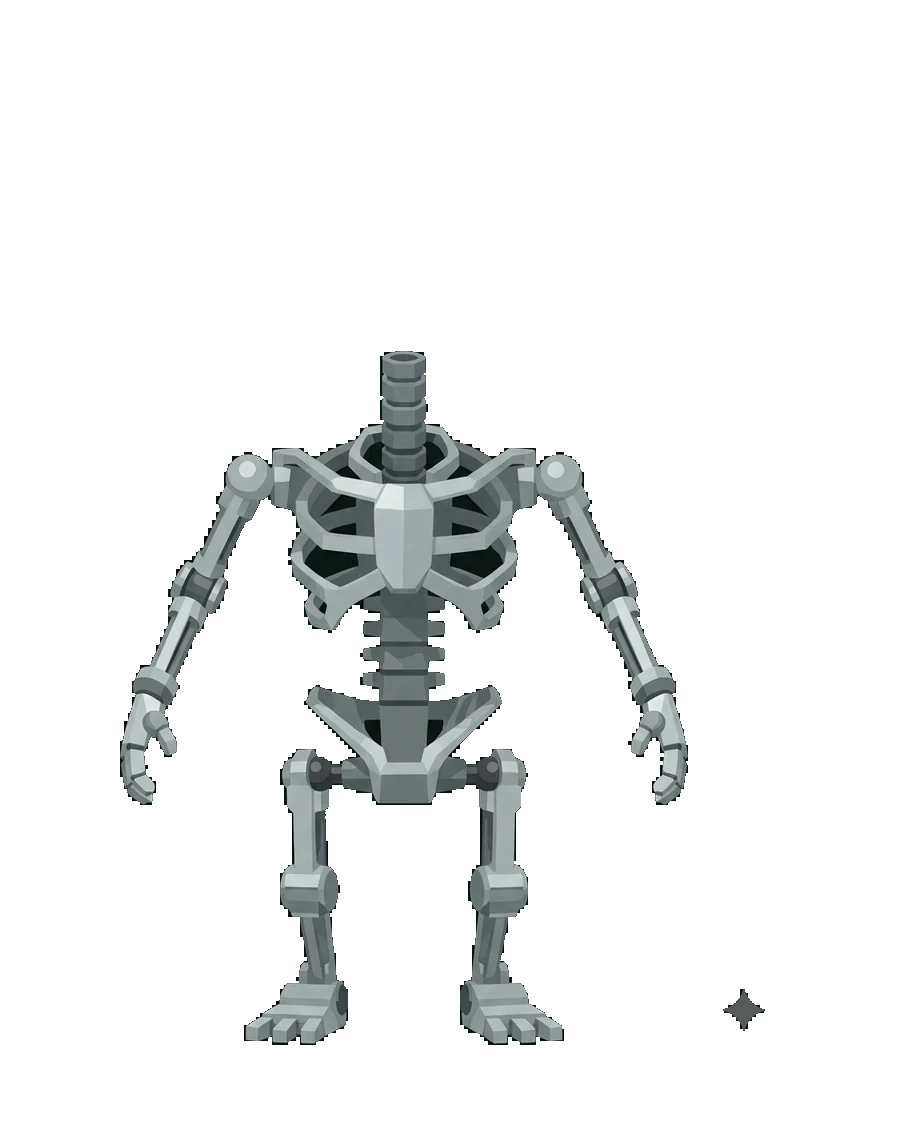
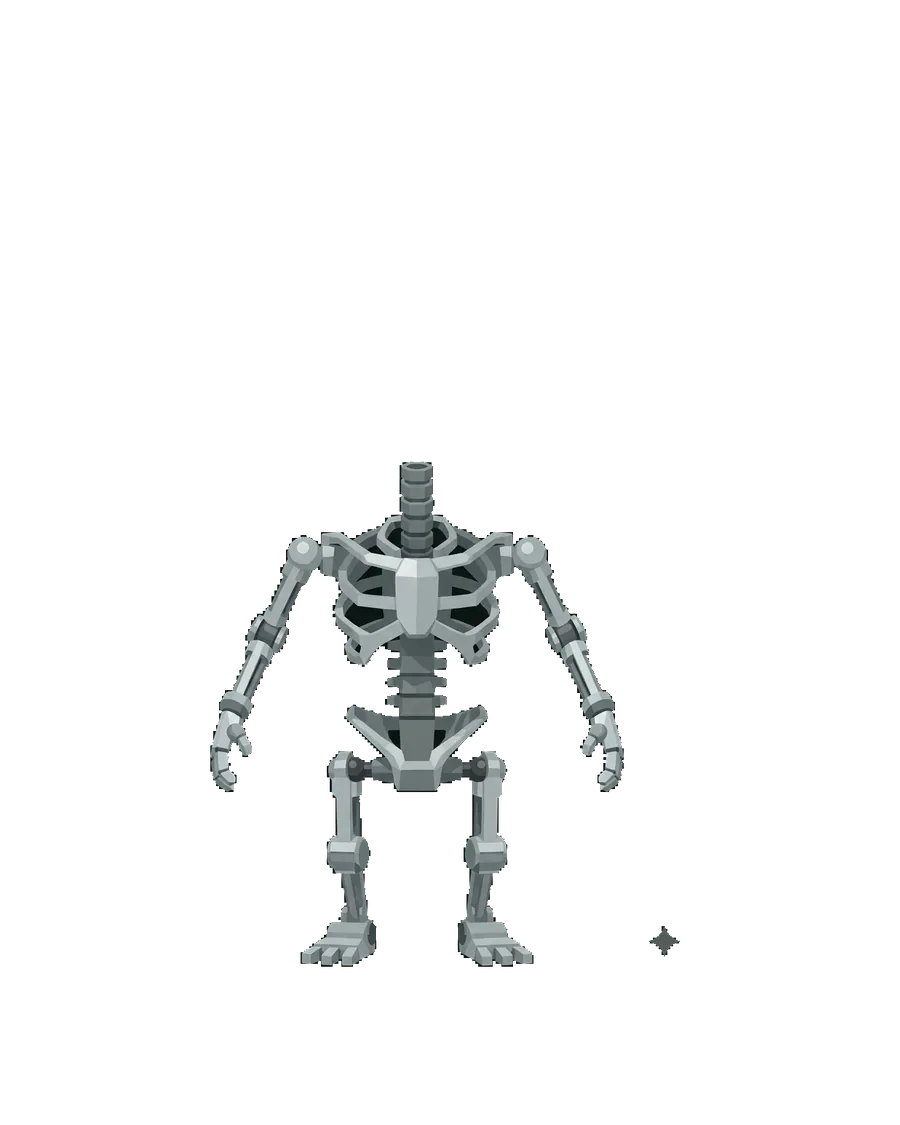
Setup rig: lock every stage onto one head
The lion zoomed and slid between steps because each stage was drawn to its
own framing: manes measured 384, 416, 442 and 472px wide, with head
centres up to 100px apart, and the hand-tuned scales never fixed it.

tools/align-rig.py measures each stage from its alpha silhouette — the
head is the widest run of rows in the top 45%, cut off where the
silhouette narrows to 85% and starts widening into the shoulders — and
applies one uniform scale and one translation per stage. Scale is matched
on the head box's diagonal, so the rounder skull mane splits the
difference instead of matching width and missing height. The headless
skeleton matches on body length (shoulder line to floor) and lands its
shoulders where the maned stages' necks are.

After: head widths 372-387, centres within 1px, shoulder lines within
7px, skeleton body 430 against the armoured stage's 434. Nothing is
stretched and nothing is upscaled; resampling premultiplies alpha so the
edges stay clean.

What it cannot fix is the bodies: shoulders-to-floor runs 434, 430, 329,
322 and 292, so the feet still sit up to 137px apart. That needs new art;
the README carries the reference frame numbers and how to generate
against them.

Changed region(s): [[0.1244, 0.3111, 0.7778, 0.9333], [0.8089, 0.8711, 0.84, 0.9333], [0.7156, 0.8089, 0.7467, 0.8711]]

diff --git a/tools/align-rig.py b/tools/align-rig.py
@@ -1,0 +1,186 @@
+#!/usr/bin/env python3
+"""Lock the assembly rig's stages onto one head, so they cross-fade as one figure.
+
+    python3 tools/align-rig.py            # align img/apex-rig-*.webp in place
+    python3 tools/align-rig.py --check    # measure only, write nothing
+
+The art is generated per stage and never comes back the same size: the heads
+measured 384-472px wide, sitting up to 100px apart, which is why the lion
+appeared to zoom and slide between steps. Each stage is a complete drawing, so
+the only honest fix is a uniform scale plus a translation - one that puts every
+head in the same place at the same size. Nothing is stretched.
+
+How a stage is measured, from its alpha silhouette alone (the art has no
+metadata and colour masks miss the mane's shaded side):
+
+  head   the widest run of rows in the top 45% of the figure, cut off at the
+         neck - the first row below that peak where the silhouette has narrowed
+         to 85% and starts widening again into the shoulders
+  scale  matched on the head box's DIAGONAL, so a mane that is rounder than the
+         rest (the skull stage) splits the difference between width and height
+         instead of matching one and missing the other
+  place  the head box's centre goes to one point on the canvas, for every stage;
+         the skeleton, having no head, puts its shoulder point where the
+         reference stage's shoulder point lands
+
+The bare skeleton has no head. It is matched on body length instead - shoulder
+line to floor, which measures within 1% of the armoured stage - and it puts its
+own shoulder point where the reference stage's shoulder point lands, so the two
+share a shoulder line and a floor.
+
+Run it again and nothing moves relative to anything else: every stage is
+re-measured and re-placed together, so the group may re-centre in the canvas by
+a few pixels, but the heads stay locked to each other.
+
+What this CANNOT fix: the bodies. Once the heads agree, each stage's body is
+whatever the generator drew relative to that head, and they disagree by up to
+20% (the skull stage's body is the worst). Only new art fixes that; see the
+README for the prompt and the reference frame to generate it against.
+"""
+import argparse, json, math, sys
+from pathlib import Path
+
+import numpy as np
+from PIL import Image
+
+W, H = 900, 1125
+NECK_OFF = 184.0           # head centre -> neck line, averaged over the maned stages
+STAGES = ["apex-rig-1-body", "apex-rig-2-brain", "apex-rig-3-face", "apex-rig-4-limbs", "apex-rig-5-alive"]
+HEADLESS = "apex-rig-1-body"
+REF = "apex-rig-3-face"    # smallest head: every other stage scales DOWN, so nothing is upscaled
+
+
+def widths(mask):
+    """Silhouette width, left and right edge, per row."""
+    w = np.zeros(mask.shape[0], int)
+    lo = np.zeros(mask.shape[0], int)
+    hi = np.zeros(mask.shape[0], int)
+    for y in range(mask.shape[0]):
+        xs = np.nonzero(mask[y])[0]
+        if len(xs):
+            lo[y], hi[y], w[y] = xs.min(), xs.max(), xs.max() - xs.min() + 1
+    return w, lo, hi
+
+
+def measure(img, name):
+    a = np.array(img)
+    soft = a[..., 3] > 60      # the whole figure, aura included
+    hard = a[..., 3] > 200     # opaque only: the glow and the skill.md text don't count as body
+    w, lo, hi = widths(soft)
+    wo, loo, hio = widths(hard)
+    rows = np.nonzero(soft.any(1))[0]
+    top, bot = int(rows.min()), int(rows.max())
+    d = {"top": top, "bot": bot}
+    feet = int(np.nonzero(wo)[0].max())
+    if name == HEADLESS:
+        # its shoulders are where the silhouette jumps from the neck stub to the ribcage
+        wide = wo[top:top + 300].max()
+        shoulder = next(y for y in range(top, top + 300) if wo[y] >= wide * 0.5)
+        d.update(kind="skeleton", shoulderY=shoulder, shoulderW=int(wo[shoulder]),
+                 shoulderCx=float((loo[shoulder] + hio[shoulder]) / 2), feet=feet)
+        return d
+    smooth = np.convolve(w, np.ones(15) / 15, mode="same")
+    peak = int(np.argmax(smooth[top:top + int((bot - top) * 0.45)]) + top)
+    neck = next((y for y in range(peak, min(bot, peak + 340))
+                 if smooth[y] < 0.85 * smooth[peak] and smooth[y] <= smooth[min(y + 8, bot)]), peak + 200)
+    ys, xs = np.nonzero(soft[top:neck + 1])
+    # The shoulder line IS the neck row here: the mane ends where the shoulders begin.
+    # Don't look for "the widest row below the head" - arms and legs keep widening
+    # downwards, so that lands on the hips.
+    d.update(kind="maned", neck=int(neck), headW=int(xs.max() - xs.min() + 1), headH=int(neck - top + 1),
+             cx=float((xs.min() + xs.max()) / 2), cy=float((top + neck) / 2),
+             shoulderY=int(neck), shoulderW=int(wo[neck]),
+             shoulderCx=float((loo[neck] + hio[neck]) / 2), feet=feet)
+    return d
+
+
+def resized(img, scale):
+    """Premultiply before resampling: straight RGBA drags the transparent pixels'
+    black into every edge, and this art is all edges."""
+    a = np.array(img).astype(np.float32)
+    alpha = a[..., 3:4] / 255.0
+    a[..., :3] *= alpha
+    out = Image.fromarray(a.astype(np.uint8)).resize(
+        (max(1, round(img.width * scale)), max(1, round(img.height * scale))), Image.LANCZOS)
+    a = np.array(out).astype(np.float32)
+    alpha = a[..., 3:4] / 255.0
+    a[..., :3] = np.where(alpha > 0, np.clip(a[..., :3] / np.maximum(alpha, 1e-6), 0, 255), 0)
+    return Image.fromarray(a.astype(np.uint8))
+
+
+def main():
+    ap = argparse.ArgumentParser()
+    ap.add_argument("--dir", default="img")
+    ap.add_argument("--check", action="store_true", help="measure and report, write nothing")
+    ap.add_argument("--quality", type=int, default=82)
+    args = ap.parse_args()
+    d = Path(args.dir)
+
+    src = {}
+    for n in STAGES:
+        p = d / f"{n}.webp"
+        if not p.exists():
+            sys.exit(f"missing {p}")
+        src[n] = Image.open(p).convert("RGBA")
+    M = {n: measure(src[n], n) for n in STAGES}
+
+    ref_diag = math.hypot(M[REF]["headW"], M[REF]["headH"])
+    for n, m in M.items():
+        m["scale"] = (ref_diag / math.hypot(m["headW"], m["headH"])) if m["kind"] == "maned" \
+            else (M[REF]["feet"] - M[REF]["shoulderY"]) / (m["feet"] - m["shoulderY"])   # body length: shoulders to floor
+
+    # Aligned space: the reference at scale 1, its head centre at the origin. A maned
+    # stage puts its own head centre there. The skeleton has none, so it puts its
+    # shoulder point where the reference's shoulder point lands - same shoulder line,
+    # same floor, since their torsos measure the same.
+    r = M[REF]
+    ref_shoulder = (r["shoulderCx"] - r["cx"], r["shoulderY"] - r["cy"])   # in aligned space
+    anchor, target = {}, {}
+    for n, m in M.items():
+        if m["kind"] == "maned":
+            anchor[n], target[n] = (m["cx"], m["cy"]), (0.0, 0.0)
+        else:
+            anchor[n], target[n] = (m["shoulderCx"], m["shoulderY"]), ref_shoulder
+
+    ext = {}
+    for n, m in M.items():
+        ys, xs = np.nonzero(np.array(src[n])[..., 3] > 60)
+        ax, ay = anchor[n]
+        tx, ty = target[n]
+        s = m["scale"]
+        ext[n] = dict(l=(ax - xs.min()) * s - tx, r=(xs.max() - ax) * s + tx,
+                      t=(ay - ys.min()) * s - ty, b=(ys.max() - ay) * s + ty)
+    uL, uR = (max(e[k] for e in ext.values()) for k in ("l", "r"))
+    uT, uB = (max(e[k] for e in ext.values()) for k in ("t", "b"))
+    k = min(1.0, W * 0.97 / (uL + uR), H * 0.97 / (uT + uB))   # never upscale past the source art
+    Cx = (W - (uL + uR) * k) / 2 + uL * k
+    Cy = (H - (uT + uB) * k) / 2 + uT * k
+
+    print(f"reference {REF}  fit {k:.4f}  head centre ({Cx:.0f}, {Cy:.0f})")
+    print(f"{'stage':20} {'scale':>7} {'headW':>6} {'headH':>6} {'offset':>14}")
+    plan = {}
+    for n, m in M.items():
+        s = m["scale"] * k
+        ax, ay = anchor[n]
+        tx, ty = target[n]
+        ox, oy = round(Cx + tx * k - ax * s), round(Cy + ty * k - ay * s)
+        plan[n] = dict(scale=round(s, 4), ox=ox, oy=oy)
+        print(f"{n:20} {s:7.4f} {m.get('headW', 0):6} {m.get('headH', 0):6} {f'({ox}, {oy})':>14}")
+
+    if args.check:
+        print(json.dumps(M, indent=1, default=float))
+        return
+
+    for n, p in plan.items():
+        out = Image.new("RGBA", (W, H), (0, 0, 0, 0))
+        out.alpha_composite(resized(src[n], p["scale"]), (p["ox"], p["oy"]))
+        out.save(d / f"{n}.webp", quality=args.quality, method=6)
+
+    after = {n: measure(Image.open(d / f"{n}.webp").convert("RGBA"), n) for n in STAGES if n != HEADLESS}
+    print("\nafter — the heads that have to agree:")
+    for n, m in after.items():
+        print(f"  {n:20} headW={m['headW']:4} headH={m['headH']:4} centre=({m['cx']:.1f}, {m['cy']:.1f}) neck={m['neck']}")
+
+
+if __name__ == "__main__":
+    main()

diff --git a/README.md b/README.md
@@ -31,6 +31,7 @@ Or use any static server from this folder (`python3 -m http.server 8080`). Openi
 | `css/hero.css` | The hero cast: the lion video (square, floor line, no masks) and the Telegram bubble |
 | `css/sections.css` | the frontend (the Telegram phone) · the setup · the journey flow |
 | `css/sections-2.css` | brains & tools · how they work together · recipe → cart · daily rhythm · build loop · thank you |
+| `tools/align-rig.py` | Locks the rig stages onto one head (see the assembly rig, below) |
 | `img/` | WebP copies of `tutorial/assets` (agents, framed Telegram crops, dashboard shots, Zepto cart) |
 | `media/` | `apex-wave.webm` (alpha) + `apex-wave.mp4` (fallback) — the hero lion loop, silent — and its poster frame |
 | `vendor/`, `fonts/` | GSAP 3.12.5 + ScrollTrigger, Lenis 1.1.13, Bricolage Grotesque / Instrument Serif / JetBrains Mono |
@@ -130,8 +131,17 @@ As the five steps scroll past, APEX builds himself in the right-hand column: bar
 - **The soul is not new art.** The armoured stage lists two steps (`at: [2, 3]`, rendered as `data-at="2 3"`), so it holds instead of fading out and back in, and `fx: "soul"` adds two layers round it: a gold copy of him blurred into a halo behind (`z-index: 0`), and motes rising in front (`z-index: 2`). The halo breathes and the motes rise only while that step is on, and neither moves under reduced motion. The originals and the exporter that normalises them live in **`apex_leo/tutorial/assets/rig-src/`** (outside this public repo, since they're large) — `export_rig.py` there regenerates all five, and its `SRC` table holds the hand-tuned scale and offset per image.
 
 - **Each file is a complete STAGE, not a single part**, so exactly one shows at a time and they cross-fade. `motion.js` tests whether the layer's `data-at` list includes the step, never `<= i`. Stacking them would show the skeleton's splayed arms poking out from behind the finished lion, because the art is transparent.
-- **They share no source framing** and never will: feet sat at 92.0% / 98.2% / 98.0% of three different canvases, one of them 912×1171 rather than square. They're normalised onto one 900×1125 canvas — feet on a common baseline, centred, **scale hand-tuned per image**.
-- **Four automatic scale landmarks were tried and all failed**: total height (oversizes the headless skeleton), figure width (the skeleton's splayed arms vs the lion's tail and aura), leg span (contaminated by hanging hands in some frames and not others), leg length (armour lowers the visible crotch, giving 313/287/**195**), and hip width (skeletal bodies are open, so the run at the midline is a thin strut — 58/152/233/**21**/88, i.e. scale factors up to 14×). These drawings have different anatomy; stop trying to derive it and tune five numbers by eye against drawn guides.
+- **They share no source framing** and never will: feet sat at 92.0% / 98.2% / 98.0% of three different canvases, one of them 912×1171 rather than square. They're normalised onto one 900×1125 canvas.
+- **The head is the anchor, and `tools/align-rig.py` sets it.** Hand-tuned scales left the lion zooming and sliding between steps: the mane measured **384, 416, 442 and 472px wide** across the four stages, with head centres up to 100px apart. The tool measures each stage from its alpha silhouette — the head is the widest run of rows in the top 45%, cut off at the neck, where the silhouette narrows to 85% and starts widening into the shoulders — then applies one uniform scale and one translation so every head lands in the same place at the same size. After it: head widths **372–387**, centres within **1px**, shoulder lines within **7px**. Run `python3 tools/align-rig.py --check` to see the numbers without writing.
+- **Match the head on its DIAGONAL, not its width.** The skull stage's mane is rounder than the rest; matching width alone left it 8% too tall.
+- **The skeleton has no head**, so it matches on body length — shoulder line to floor — and lands its shoulders where the maned stages' necks are. Its body then measures 430 against the armoured stage's 434.
+- **The shoulder line is the neck row**, not "the widest row below the head": arms, tails and legs keep widening downwards, so the widest row lands on the hips and the skeleton comes out 18% too small.
+- **Resampling premultiplies alpha** first. Straight RGBA drags the transparent pixels' black into every edge, and this art is all edges.
+- **Nothing is upscaled.** The smallest head (the armoured stage) is the reference, so every other stage scales down; the group is then centred on the canvas at its natural size.
+- **What alignment cannot fix: the bodies.** Once the heads agree, each body is whatever the generator drew against that head, and they disagree — measuring shoulders-to-floor, the armoured stage and the skeleton are 434 and 430, the skilled and awake stages 322 and 329, and the skull stage **292**. So the feet sit up to 137px apart while the head never moves. Only new art fixes that, generated against the reference frame (see below).
+- **Earlier automatic landmarks that failed** and should not be tried again: total height (oversizes the headless skeleton), figure width (the skeleton's splayed arms vs the lion's tail and aura), leg span (contaminated by hanging hands in some frames and not others), leg length (armour lowers the visible crotch, giving 313/287/**195**), and hip width (skeletal bodies are open, so the run at the midline is a thin strut — 58/152/233/**21**/88, i.e. scale factors up to 14×).
+
+**Regenerating a stage so it drops straight in:** generate **from the aligned art**, not from a text prompt alone — ask for the one change and nothing else, so the pose, framing and head size come back untouched. Feed the stage you are replacing (or `apex-rig-3-face.webp`, the reference) as the input image, keep the 900×1125 frame and the transparent background, and hold the head where it is: mane box **384×367 centred at (413, 349)**, shoulder line **y=532**, floor **y=966**. Then run `python3 tools/align-rig.py` anyway — it costs nothing and it catches whatever drifted.
 - **Backgrounds are transparent, never a filled panel.** Filling them with the page ink and saving lossy WebP drifted the flat field off `#0b1312` and drew a visible rectangle — faint on desktop, obvious behind the sticky mobile rig. With alpha there is no flat field to drift, and lossy is then fine: 172.6 KB for all five, against ~900 KB lossless.
 - **Keying is "near background AND reachable from the edge"**, the second test done by flood-filling a quarter-scale copy. Enclosed darks — the lion's black eyes and nose, the skull cage interior, joint shadows — are near-background but *not* edge-reachable, so they stay opaque; the colour test keeps the edge pixel-sharp. A plain colour threshold would have eaten the eyes. Verified by compositing the exports over magenta (`alpha-check.png`), which also shows a dark halo retained around the glow in stages 3–5 — invisible on this page, since it is near-black on near-black.
 - **On phones every column in this section is `minmax(0, 1fr)`, never a bare `1fr`** (`.setup__grid`, `.step`, `.step__frames`). A bare `1fr` floors at min-content, and the unbreakable install command in step 01 pushed every frame 31px past the screen edge.
